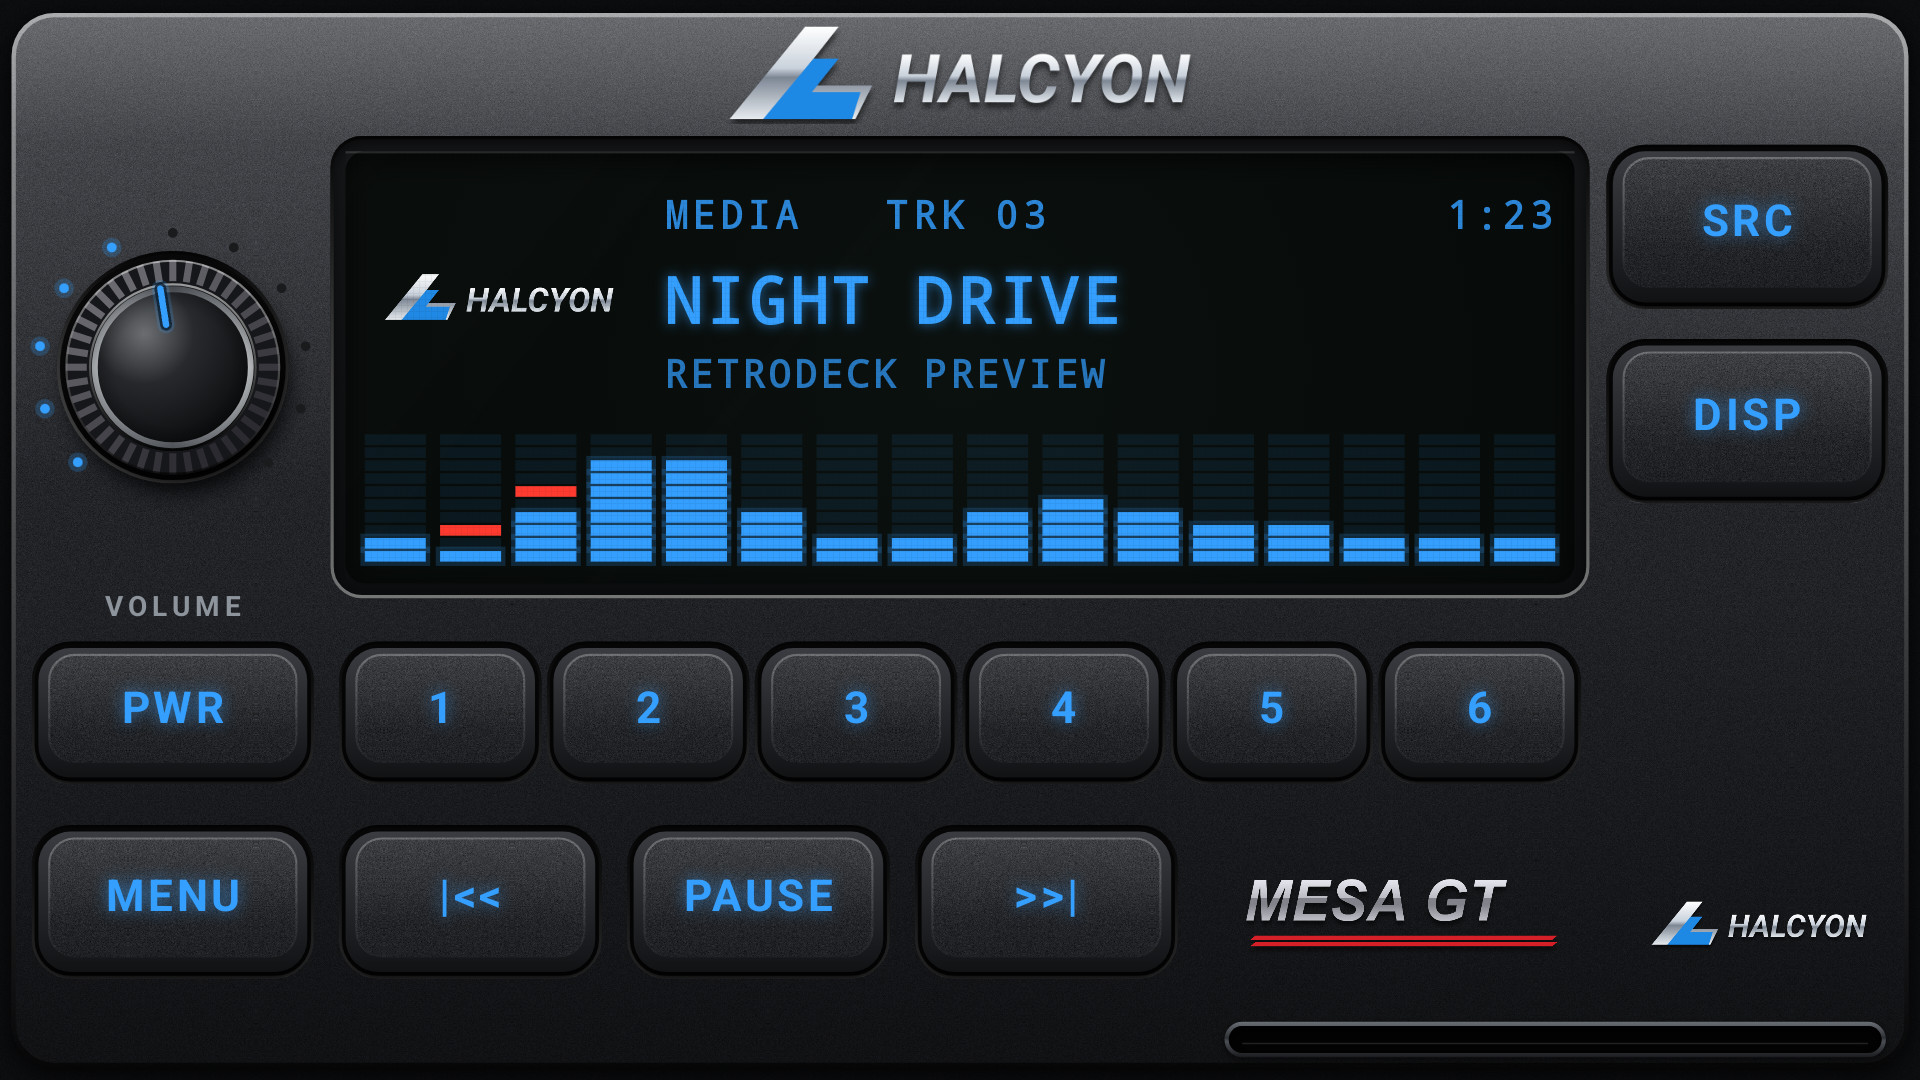
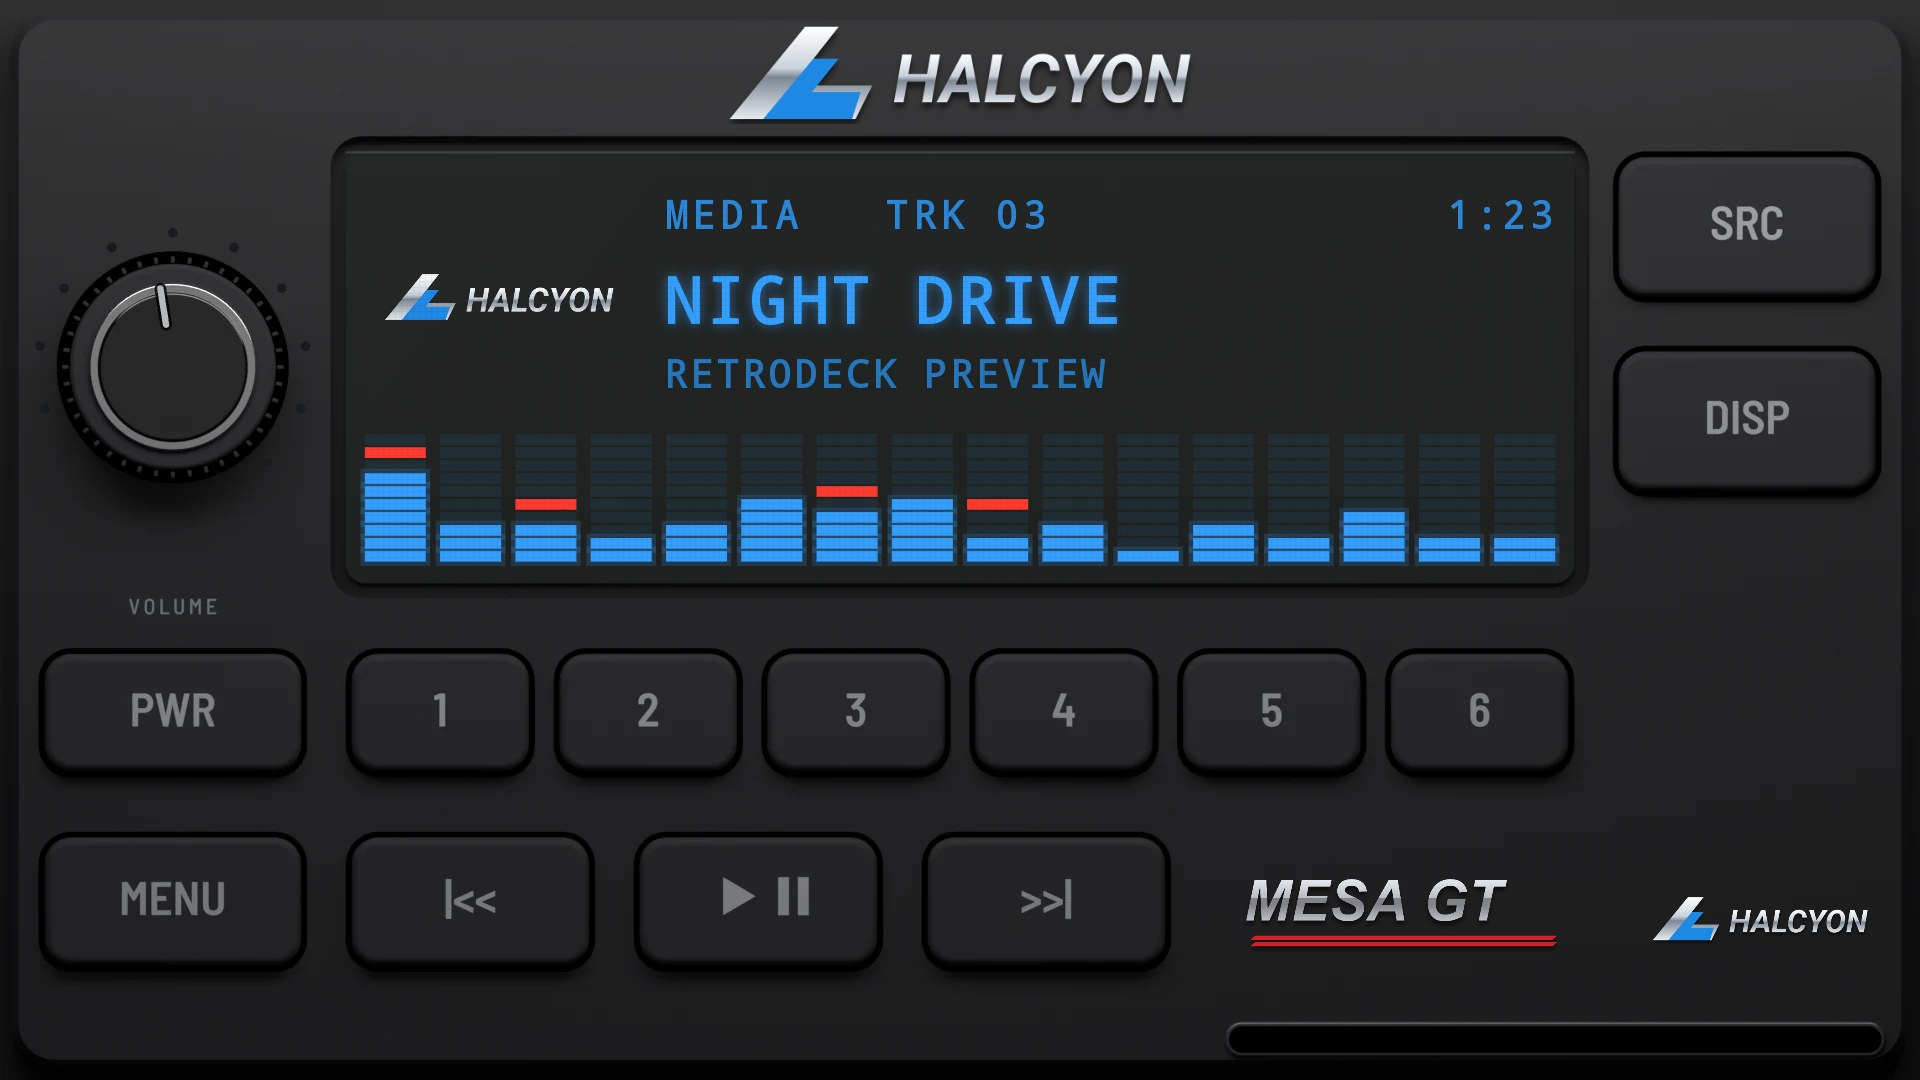
v0.5.0: all six skins in 3D, checked on a device; real day and night screenshots

diff --git a/tools/blender/skins.py b/tools/blender/skins.py
@@ -194,7 +194,7 @@ def modern():
 
     def lit(pressed, night):
         # A touch key doesn't move: it lights up under the finger.
-        pad_bsdf.inputs["Emission Strength"].default_value = (0.05 if night else 0.12) if pressed else 0.0
+        pad_bsdf.inputs["Emission Strength"].default_value = (0.015 if night else 0.12) if pressed else 0.0
     return lights, lit
 
 

diff --git a/README.md b/README.md
@@ -65,7 +65,7 @@
 <h2>Features</h2>
 
 <ul>
-  <li><strong>Six skins</strong>, modelled on real designs, with no brand names on them:
+  <li><strong>Six skins</strong>, modelled in 3D after the stereos of their era, with no brand names on them:
     <ul>
       <li>Classic 1985: brushed aluminium, a spun-metal knob, a fluorescent display and a cassette door</li>
       <li>Hi-Fi 1984: a black anodised Japanese hi-fi deck with champagne print, slim keys, an amber display and tape switches</li>
@@ -245,7 +245,8 @@ my-vehicle.zip
   <li>The Amber and Green illumination presets, and "From logos".</li>
   <li>The glow, green LCD, digital scan and CRT startup styles in the editor, and the glow style when the app opens. Modern fade and minimal instant startup were not watched.</li>
   <li>Classic 1985, Digital 1996 and Modern Glass, at both sizes, and the standby screen.</li>
-  <li>Z32 Factory 1990, modelled in 3D (v0.4.0): Auto at 19:24 (night look), Off (day look), and a pressed key by day and night. Always on, and the other skins' day look, have only been drawn by the render tests.</li>
+  <li>Z32 Factory 1990, modelled in 3D (v0.4.0): Auto at 19:24 (night look), Off (day look), and a pressed key by day and night.</li>
+  <li>The other five skins, modelled in 3D (v0.5.0): Auto at 20:10 with the dash lit blue (night look, legends tinted blue), Off (day look), and a pressed key at night. Always on has only been drawn by the render tests.</li>
   <li>Hi-Fi 1984, Z32 Factory 1990 and Detachable 1998 at 1920×1080 only, imported from a pack, with the round PLAY key, PROG as the menu key and the encoder's volume taps. Tapping RPT, a design-only key, did nothing.</li>
   <li>Exporting a pack to Download/RetroDeck and importing an edited copy as a second profile.</li>
   <li>A pack holding a <code>../</code> path, which was refused.</li>

diff --git a/themes/1990s/detachable-1998/README.md b/themes/1990s/detachable-1998/README.md
@@ -6,10 +6,13 @@ A late-1990s detachable faceplate: curved graphite with chrome trim along the to
 
 ## Screenshots
 
-Taken from the running app on an Android TV box at 1920×1080 (240 dpi), branded with the made-up Halcyon Mesa GT from [docs/demo](../../../docs/demo/). Taken with v0.2.0. That was before key lighting, so the keys are lit with the faceplate in daylight; current versions look like the day and night renders below.
+Taken from the running app (v0.5.0) on an Android TV box at 1920×1080 (240 dpi), branded with the made-up Halcyon Mesa GT from [docs/demo](../../../docs/demo/), with the dash lit blue. The faceplate is a 3D render; the display, logos and knob pointer are drawn live on top.
 
-![Branded with the demo car, playing](stereo-detachable.jpg)
-<sub>Branded with the demo car, playing</sub>
+![By day](stereo-detachable.jpg)
+<sub>By day (Key Lighting Off): legends printed on the keys</sub>
+
+![At night](stereo-detachable-night.jpg)
+<sub>At night (Key Lighting on Auto, 20:10): the faceplate dark, the legends backlit in the dash colour</sub>
 
 ## Day and night
 

diff --git a/themes/1980s/classic-1985/README.md b/themes/1980s/classic-1985/README.md
@@ -6,10 +6,13 @@ A brushed-aluminium single-DIN unit with black keys, a big spun-metal volume kno
 
 ## Screenshots
 
-Taken from the running app on an Android TV box at 1920×1080 (240 dpi), branded with the made-up Halcyon Mesa GT from [docs/demo](../../../docs/demo/). Taken with v0.1.0. That was before key lighting, so the keys are lit with the faceplate in daylight; current versions look like the day and night renders below.
+Taken from the running app (v0.5.0) on an Android TV box at 1920×1080 (240 dpi), branded with the made-up Halcyon Mesa GT from [docs/demo](../../../docs/demo/), with the dash lit blue. The faceplate is a 3D render; the display, logos and knob pointer are drawn live on top.
 
-![Branded with the demo car, playing](stereo-classic.jpg)
-<sub>Branded with the demo car, playing</sub>
+![By day](stereo-classic.jpg)
+<sub>By day (Key Lighting Off): legends printed on the keys</sub>
+
+![At night](stereo-classic-night.jpg)
+<sub>At night (Key Lighting on Auto, 20:10): the faceplate dark, the legends backlit in the dash colour</sub>
 
 ## Day and night
 

diff --git a/themes/1990s/digital-1996/README.md b/themes/1990s/digital-1996/README.md
@@ -6,10 +6,13 @@ A mid-1990s deck in grained black plastic with soft rubber keys, a ribbed volume
 
 ## Screenshots
 
-Taken from the running app on an Android TV box at 1920×1080 (240 dpi), branded with the made-up Halcyon Mesa GT from [docs/demo](../../../docs/demo/). Taken with v0.1.0. That was before key lighting, so the keys are lit with the faceplate in daylight; current versions look like the day and night renders below.
+Taken from the running app (v0.5.0) on an Android TV box at 1920×1080 (240 dpi), branded with the made-up Halcyon Mesa GT from [docs/demo](../../../docs/demo/), with the dash lit blue. The faceplate is a 3D render; the display, logos and knob pointer are drawn live on top.
 
-![Branded with the demo car, playing](stereo-digital.jpg)
-<sub>Branded with the demo car, playing</sub>
+![By day](stereo-digital.jpg)
+<sub>By day (Key Lighting Off): legends printed on the keys</sub>
+
+![At night](stereo-digital-night.jpg)
+<sub>At night (Key Lighting on Auto, 20:10): the faceplate dark, the legends backlit in the dash colour</sub>
 
 ## Day and night
 

diff --git a/themes/2020s/modern-glass/README.md b/themes/2020s/modern-glass/README.md
@@ -6,10 +6,13 @@ A current head unit: one sheet of black glass with a bonded display and a row of
 
 ## Screenshots
 
-Taken from the running app on an Android TV box at 1920×1080 (240 dpi), branded with the made-up Halcyon Mesa GT from [docs/demo](../../../docs/demo/). Taken with v0.1.0. That was before key lighting, so the keys are lit with the faceplate in daylight; current versions look like the day and night renders below.
+Taken from the running app (v0.5.0) on an Android TV box at 1920×1080 (240 dpi), branded with the made-up Halcyon Mesa GT from [docs/demo](../../../docs/demo/), with the dash lit blue. The faceplate is a 3D render; the display, logos and knob pointer are drawn live on top.
 
-![Branded with the demo car, playing](stereo-modern.jpg)
-<sub>Branded with the demo car, playing</sub>
+![By day](stereo-modern.jpg)
+<sub>By day (Key Lighting Off): legends printed on the keys</sub>
+
+![At night](stereo-modern-night.jpg)
+<sub>At night (Key Lighting on Auto, 20:10): the faceplate dark, the legends backlit in the dash colour</sub>
 
 ## Day and night
 

diff --git a/themes/1980s/hi-fi-1984/README.md b/themes/1980s/hi-fi-1984/README.md
@@ -6,10 +6,13 @@ A Japanese hi-fi car deck from the mid-1980s: a black anodised aluminium plate w
 
 ## Screenshots
 
-Taken from the running app on an Android TV box at 1920×1080 (240 dpi), branded with the made-up Halcyon Mesa GT from [docs/demo](../../../docs/demo/). Taken with v0.2.0. That was before key lighting, so the keys are lit with the faceplate in daylight; current versions look like the day and night renders below.
+Taken from the running app (v0.5.0) on an Android TV box at 1920×1080 (240 dpi), branded with the made-up Halcyon Mesa GT from [docs/demo](../../../docs/demo/), with the dash lit blue. The faceplate is a 3D render; the display, logos and knob pointer are drawn live on top.
 
-![Branded with the demo car, playing](stereo-hifi.jpg)
-<sub>Branded with the demo car, playing</sub>
+![By day](stereo-hifi.jpg)
+<sub>By day (Key Lighting Off): legends printed on the keys</sub>
+
+![At night](stereo-hifi-night.jpg)
+<sub>At night (Key Lighting on Auto, 20:10): the faceplate dark, the legends backlit in the dash colour</sub>
 
 ## Day and night
 
